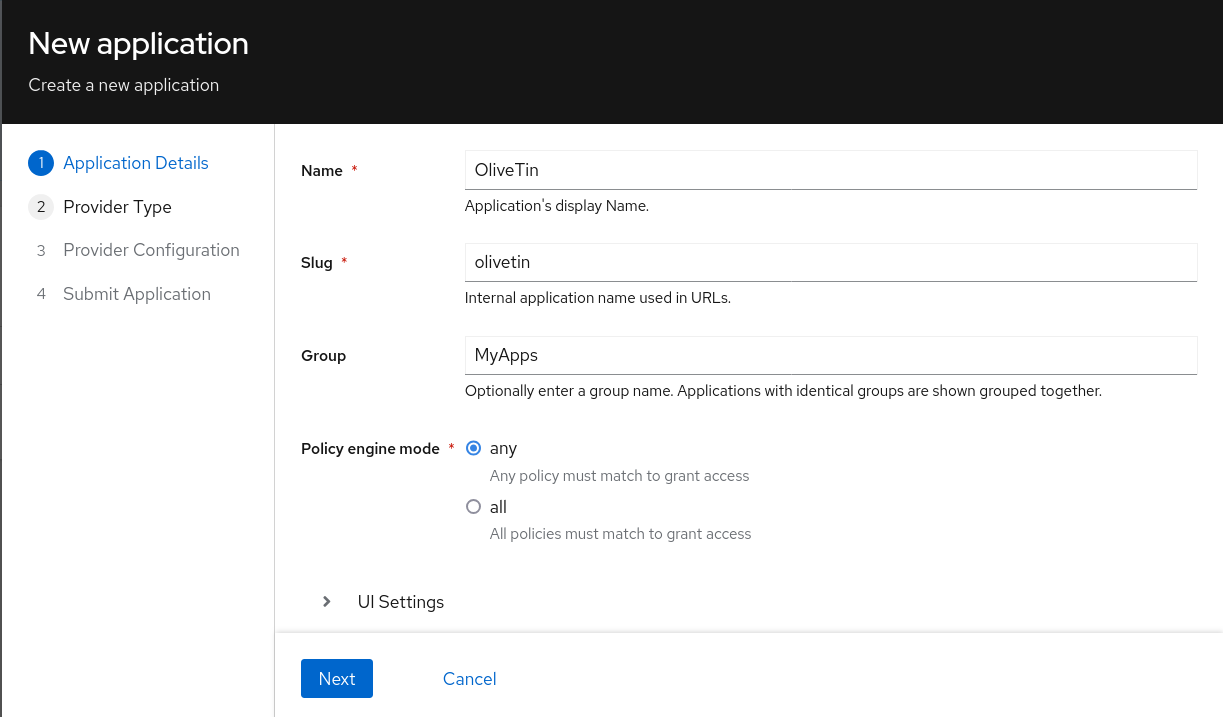
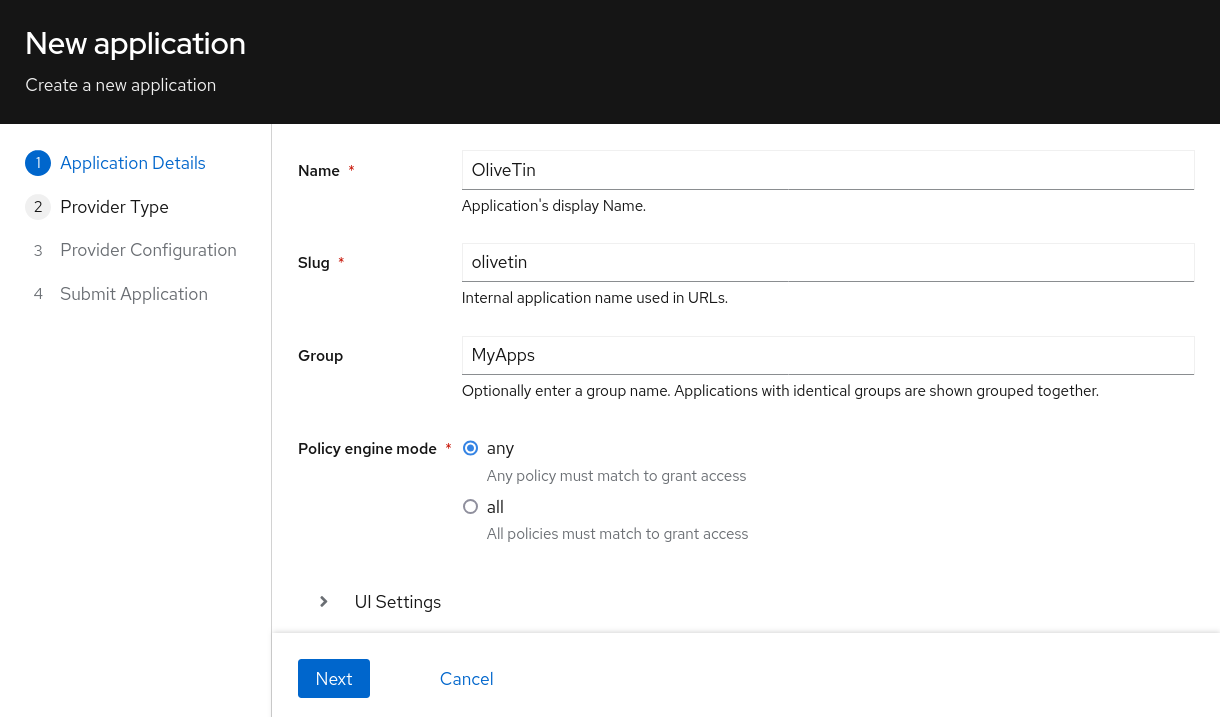
Frame images, and fix Authentik screenshot

diff --git a/modules/ROOT/pages/style.css b/modules/ROOT/pages/style.css
@@ -119,6 +119,10 @@ th {
   margin-bottom: 2em;
 }
 
+.imageblock img {
+  box-shadow: 0 0 10px rgba(0, 0, 0, 0.4);
+}
+
 hr {
   clear: both;
   border: 0;
